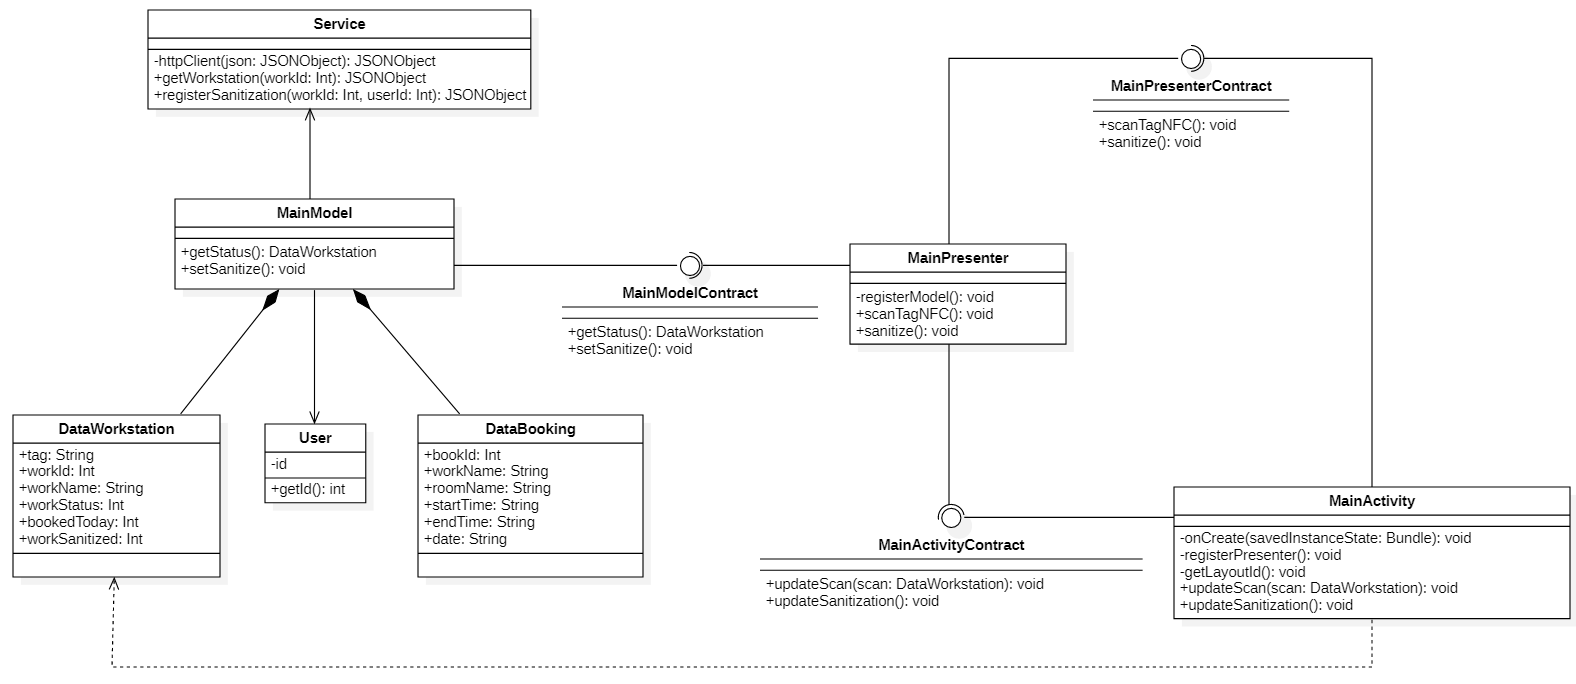
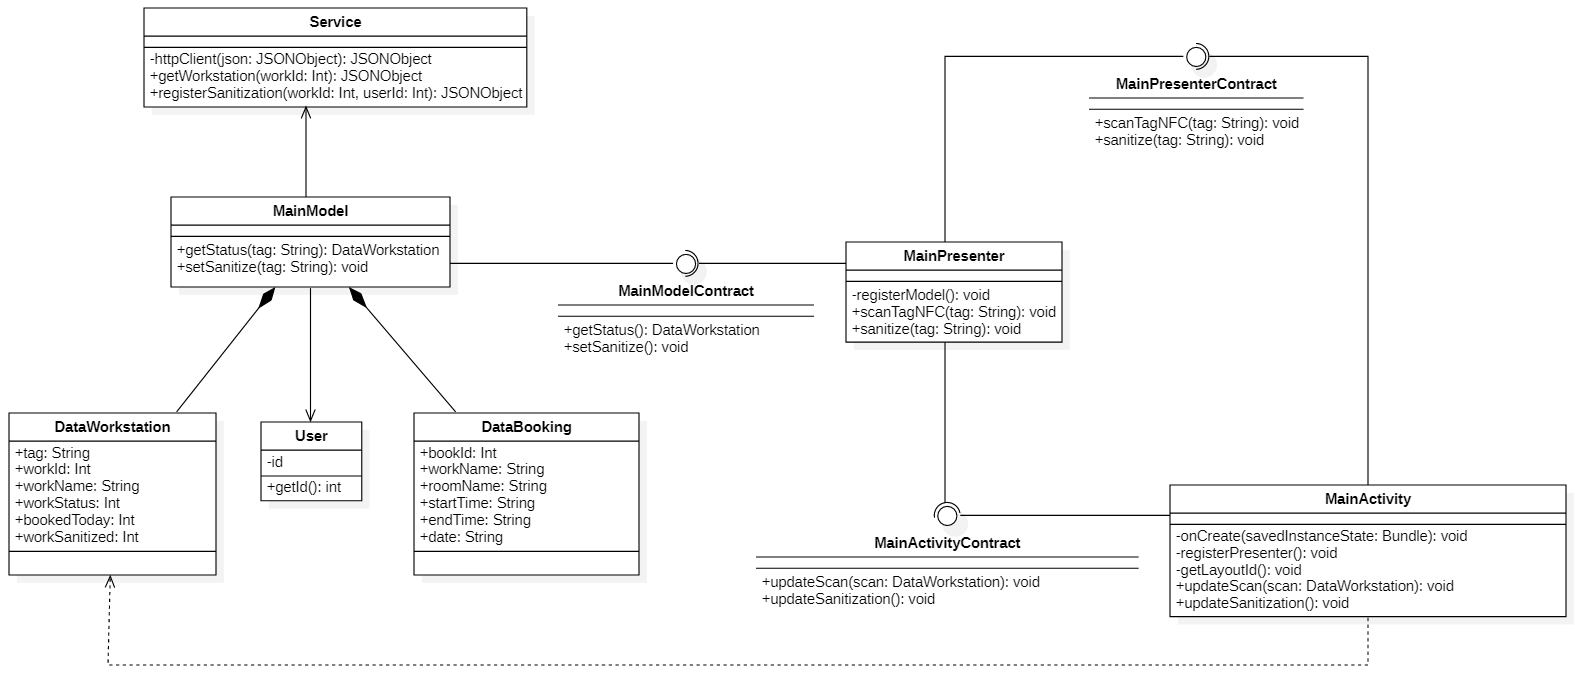
correzione main

diff --git a/esterni/ManualeManutentore/res/sections/Apputenti.tex b/esterni/ManualeManutentore/res/sections/Apputenti.tex
@@ -285,14 +285,14 @@ La classe MainActivity offre i seguenti metodi:
 La classe MainPresenter offre i seguenti metodi:
 \begin{itemize}
 	\item \textbf{registerModel(): void}: associa il Model al Presenter; 
-	\item \textbf{scanTagNFC(): void}: Si occupa di richiedere al modello le informazioni riguardanti la postazione, così poi da ritornarle alla vista; 
-	\item \textbf{sanitize(): void}: Si occupa di richiedere al modello di igienizzare una postazione, così poi da ritornarlo alla vista. 
+	\item \textbf{scanTagNFC(tag: String): void}: Si occupa di richiedere al modello le informazioni riguardanti la postazione, così poi da ritornarle alla vista; 
+	\item \textbf{sanitize(tag: String): void}: Si occupa di richiedere al modello di igienizzare una postazione, così poi da ritornarlo alla vista. 
 \end{itemize}
 
 La classe MainModel offre i seguenti metodi:
 \begin{itemize}
-	\item \textbf{getStatus(): DataWorkstation}: Si occupa di richiedere al service le caratteristiche di una determinata postazione;
-	\item \textbf{setSanitize(): void}: Si occupa di richiedere al service di igienizzare una determinata postazione.
+	\item \textbf{getStatus(tag: String): DataWorkstation}: Si occupa di richiedere al service le caratteristiche di una determinata postazione;
+	\item \textbf{setSanitize(tag: String): void}: Si occupa di richiedere al service di igienizzare una determinata postazione.
 \end{itemize}
 
 La classe Service offre i seguenti metodi:
